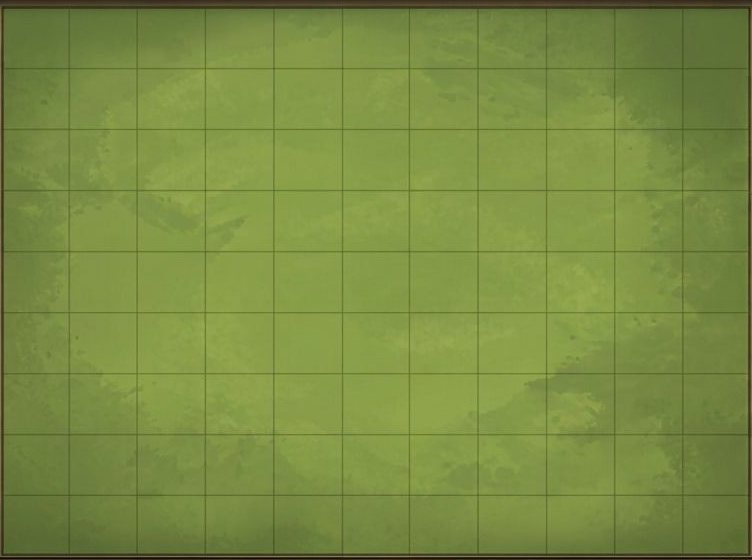
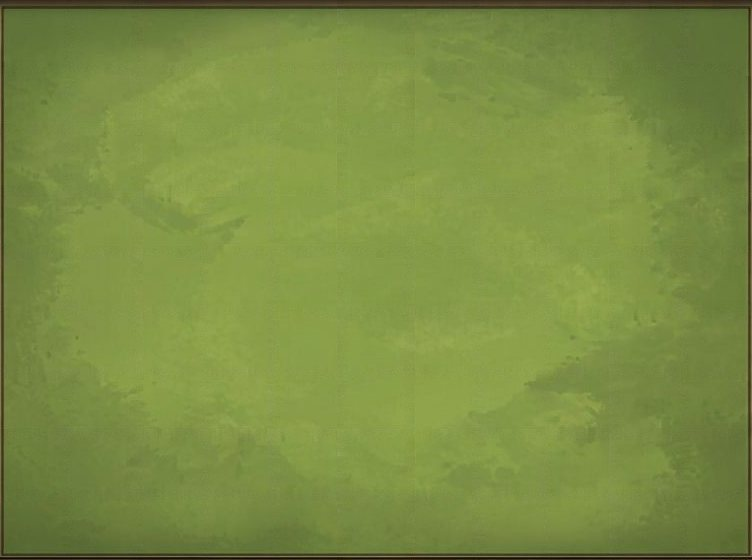
Crossroads Inn UI tweaks; add a Wizz Delivery map test

Changed region(s): [[0.3364, 0.7589, 0.367, 0.7893], [0.3364, 0.3339, 0.367, 0.3643], [0.1529, 0.6375, 0.1835, 0.6679]]

diff --git a/crossroads-inn/game.js b/crossroads-inn/game.js
@@ -311,6 +311,8 @@
   let knights = [];     // knight squads, kept between waves
   let tool = 'wall';
   let speed = 1;
+  // The speed button steps through these: normal, fast, then slow for a close look.
+  const SPEEDS = [1, 2, 0.5];
 
   function freshState() {
     const grid = new Array(W * H).fill(null);
@@ -1188,8 +1190,8 @@
     const btn = $('btn-night');
     btn.disabled = !!sim || state.fallen;
     btn.textContent = sim ? `Wave ${n} in progress…` : `Sound the alarm: wave ${n}`;
-    $('btn-speed').textContent = `Speed ×${speed}`;
-    $('btn-speed').classList.toggle('active', speed > 1);
+    $('btn-speed').textContent = `Speed ×${speed === 0.5 ? '½' : speed}`;
+    $('btn-speed').classList.toggle('active', speed !== 1);
     const hint = $('night-hint');
     const sealed = GATES.some(g => { let c = g; let guard = 0; while (c >= 0 && c !== CASTLE && guard++ < W * H) { if (isBuilding(state.grid[c])) return true; c = flow.next[c]; } return false; });
     if (sim) hint.textContent = 'You can still build while they come. Knights hold monsters in place; that is when your archers earn their keep.';
@@ -1307,6 +1309,11 @@
     if (tally) tally.textContent = tallyText();
   }
 
+  function cycleSpeed() {
+    speed = SPEEDS[(SPEEDS.indexOf(speed) + 1) % SPEEDS.length];
+    renderWave();
+  }
+
   let last = 0;
   let raf = 0;
   function frame(ts) {
@@ -1346,7 +1353,7 @@
       `<p><b>Walls</b> bend the road the long way round. <b>Towers</b>, <b>ballistae</b> and <b>mage towers</b> shoot what walks past. A <b>barracks</b> sends knights out to hold monsters still, which is when your archers earn their keep &mdash; click a barracks with the barracks tool again to upgrade it.</p>` +
       `<p>Seal every road and the horde will simply batter through the red-edged tile instead. Leave them a way in and make it a long one.</p>` +
       `<p>Everything on the hotbar is either <b>Defence</b> &mdash; walls, towers, ballistae, the mage tower, the barracks, the smithy and the chapel &mdash; or <b>Village</b> &mdash; the farm, tavern, house, market and well, the goldmakers. Ground monsters only want the keep, but anything of yours that borders the road they will stop and pillage. Burn a building and you simply build it again; losing the keep is the only defeat. Turn on <b>Buffs</b> in the top bar to see, on every tile, what its neighbours already give it, and hover a bare tile with a building chosen to preview what that spot would hand to the tiles beside it.</p>` +
-      `<p><b>Keys:</b> ${Object.entries(HOTKEYS).map(([k, ch]) => `${ch.toUpperCase()} ${BUILD[k].name}`).join(' &middot; ')} &middot; Space sounds the alarm &middot; S toggles speed.</p>` +
+      `<p><b>Keys:</b> ${Object.entries(HOTKEYS).map(([k, ch]) => `${ch.toUpperCase()} ${BUILD[k].name}`).join(' &middot; ')} &middot; Space sounds the alarm &middot; S cycles speed (×1, ×2, ×½).</p>` +
       `<button class="btn btn-primary" id="btn-help-close">Back to the walls</button>`,
       'help', true);
     $('btn-help-close').addEventListener('click', hideOverlay);
@@ -1367,7 +1374,7 @@
   }
 
   $('btn-night').addEventListener('click', startWave);
-  $('btn-speed').addEventListener('click', () => { speed = speed === 1 ? 2 : 1; renderWave(); });
+  $('btn-speed').addEventListener('click', () => { cycleSpeed(); });
   $('btn-help').addEventListener('click', showHelp);
   $('btn-buffs').addEventListener('click', () => {
     showBuffs = !showBuffs;
@@ -1386,7 +1393,7 @@
     if (pick) { tool = pick; renderPalette(); ev.preventDefault(); return; }
     // Space would also re-trigger whichever button still has focus.
     if (k === ' ') { ev.preventDefault(); if (document.activeElement !== $('btn-night')) startWave(); return; }
-    if (k === 's') { speed = speed === 1 ? 2 : 1; renderWave(); }
+    if (k === 's') { cycleSpeed(); }
   });
   $('btn-new').addEventListener('click', () => {
     if (state.wave > 1 && !state.fallen && !confirm('Abandon this keep and start again?')) return;

diff --git a/test/wizz-delivery/maps.js b/test/wizz-delivery/maps.js
@@ -236,6 +236,28 @@ return (async () => {
       }
     }
 
+    // And the player's own car, which is placed by hand rather than by the lane
+    // maths: it sets off facing north, so keeping left means the west half of
+    // the road and keeping right the east. The middle of the road is the curve
+    // itself where there is one — the tile run is too coarse there, and read
+    // a car sitting on the centre line as keeping left — and otherwise the run
+    // of road tiles across the start.
+    {
+      const sy = Math.floor(D.START.y);
+      let lo = Math.floor(D.START.x), hi = lo;
+      while (road.has(key(lo - 1, sy))) lo--;
+      while (road.has(key(hi + 1, sy))) hi++;
+      const s = D.geo && D.nearestLane(D.START.x, D.START.y);
+      const mid = s ? s.x : (lo + hi + 1) / 2;
+      const want = map === 'village' ? 'left' : 'right';
+      const off = D.START.x - mid;
+      const got = off < -0.15 ? 'left' : off > 0.15 ? 'right' : 'the middle';
+      if (D.car.h !== 0) problems.push(map + ': the car no longer starts facing north (h=' + D.car.h + '), so this side check is stale');
+      else if (got !== want) problems.push(map + ': the car starts ' + (got === 'the middle' ? 'in the middle' : 'on the ' + got) + ' of the road, should keep ' + want
+        + ' (x=' + D.START.x.toFixed(2) + ', road ' + lo + '..' + hi + ')');
+      else notes.push(map + ': starts keeping ' + got + ' (' + off.toFixed(2) + ' off centre)');
+    }
+
     notes.push(`${map}: ${road.size} road (${stranded} stranded), ${D.houses.length} addresses, `
       + `${D.waterTiles.size} water, ${D.parkTiles.size} green, ${D.lots.size} lots, `
       + `${moved}/${D.traffic.length} cars rolling`);

diff --git a/wizz-delivery/game.js b/wizz-delivery/game.js
@@ -21,7 +21,9 @@
   const MAPS = {
     grid: {
       name: 'American grid', traffic: 0.9, trafficSide: 'right',
-      start: { x: 17.5, y: 18.5 },
+      // facing north in the east half of the road, driving on the right, and
+      // short of the junction's stop line rather than parked in the box
+      start: { x: 18.5, y: 21.5 },
       roads: { vertical: [3, 10, 17, 24, 31, 38, 44], horizontal: [3, 10, 17, 24, 30] },
       lights: [[10, 10], [17, 17], [31, 17], [38, 24]], roundabouts: [],
       restaurants: [[5, 5], [5, 6], [12, 12], [12, 13], [26, 12], [26, 13], [19, 19], [19, 20]],
@@ -502,6 +504,14 @@
     const m = Math.hypot(dx, dy) || 1, ux = dx / m, uy = dy / m;
     const off = Math.min(s.w * 0.25, 0.6);
     return { x: s.x + uy * off * KEEP_LEFT, y: s.y - ux * off * KEEP_LEFT };
+  }
+  // A curve map gives its start as a point on the road, since only the curve
+  // knows where the middle is; move it into the near-side lane for a car
+  // setting off north (h = 0), which is the west half when you keep left.
+  if (geo) {
+    const p = lanePoint(Math.floor(START.x), Math.floor(START.y), 0, -1);
+    START.x = car.x = cam.x = p.x;
+    START.y = car.y = cam.y = p.y;
   }
 
   // ---------- signalised junctions ----------

diff --git a/crossroads-inn/style.css b/crossroads-inn/style.css
@@ -999,3 +999,10 @@ body {
   border-color: rgba(120, 84, 40, 0.55);
   box-shadow: inset 0 -6px 12px rgba(0, 0, 0, 0.28);
 }
+
+/* The header buttons sit in one row beside the stats, not stacked. */
+.topbar-btns { flex-direction: row; align-items: center; }
+
+/* Demolish is a group with no label over it, so its slot rode up above the
+   others. Sit every group's tools on the same baseline. */
+.palette-group { justify-content: flex-end; }

diff --git a/crossroads-inn/ASSETS.md b/crossroads-inn/ASSETS.md
@@ -66,7 +66,7 @@ marking the horde's route with dotted cell borders. Nothing references them yet.
 | --- | --- |
 | `wood.jpg` | the page background, and the topbar/dock/statusline panels |
 | `parchment.jpg` | the two rails, stretched to whatever height the layout gives them |
-| `board-grass.jpg` | the board, stretched under the 8×8 grid |
+| `board-grass.jpg` | the board, stretched under the 8×8 grid; its painted 11×9 grid is blended out (it could never line up with the cells) |
 | `slot.jpg` | multiplied into the dock's tool wells |
 
 `wood.jpg` is mirror-tiled — the 265×62 patch cut from the plate, plus its
@@ -88,6 +88,9 @@ from PIL import Image, ImageOps
 bg = Image.open("Hollowmarch background.jpg").convert("RGB")
 bg.crop((20, 106, 300, 596)).resize((280, 490)).save("ui/parchment.jpg", quality=86)
 bg.crop((312, 100, 1064, 660)).resize((752, 560)).save("ui/board-grass.jpg", quality=84)
+# then blend out the plate's own grid lines: for each x in (68, 136, 204, 273, 342,
+# 408, 477, 546, 614, 682) and y in (68, 128, 190, 251, 312, 373, 434, 494), fill
+# the band [i-4, i+5] by interpolating the pixels just outside it, plus faint noise
 bg.crop((22, 668, 100, 752)).save("ui/slot.jpg", quality=88)
 
 w = bg.crop((25, 598, 290, 660))                      # mirror-tile the wood
